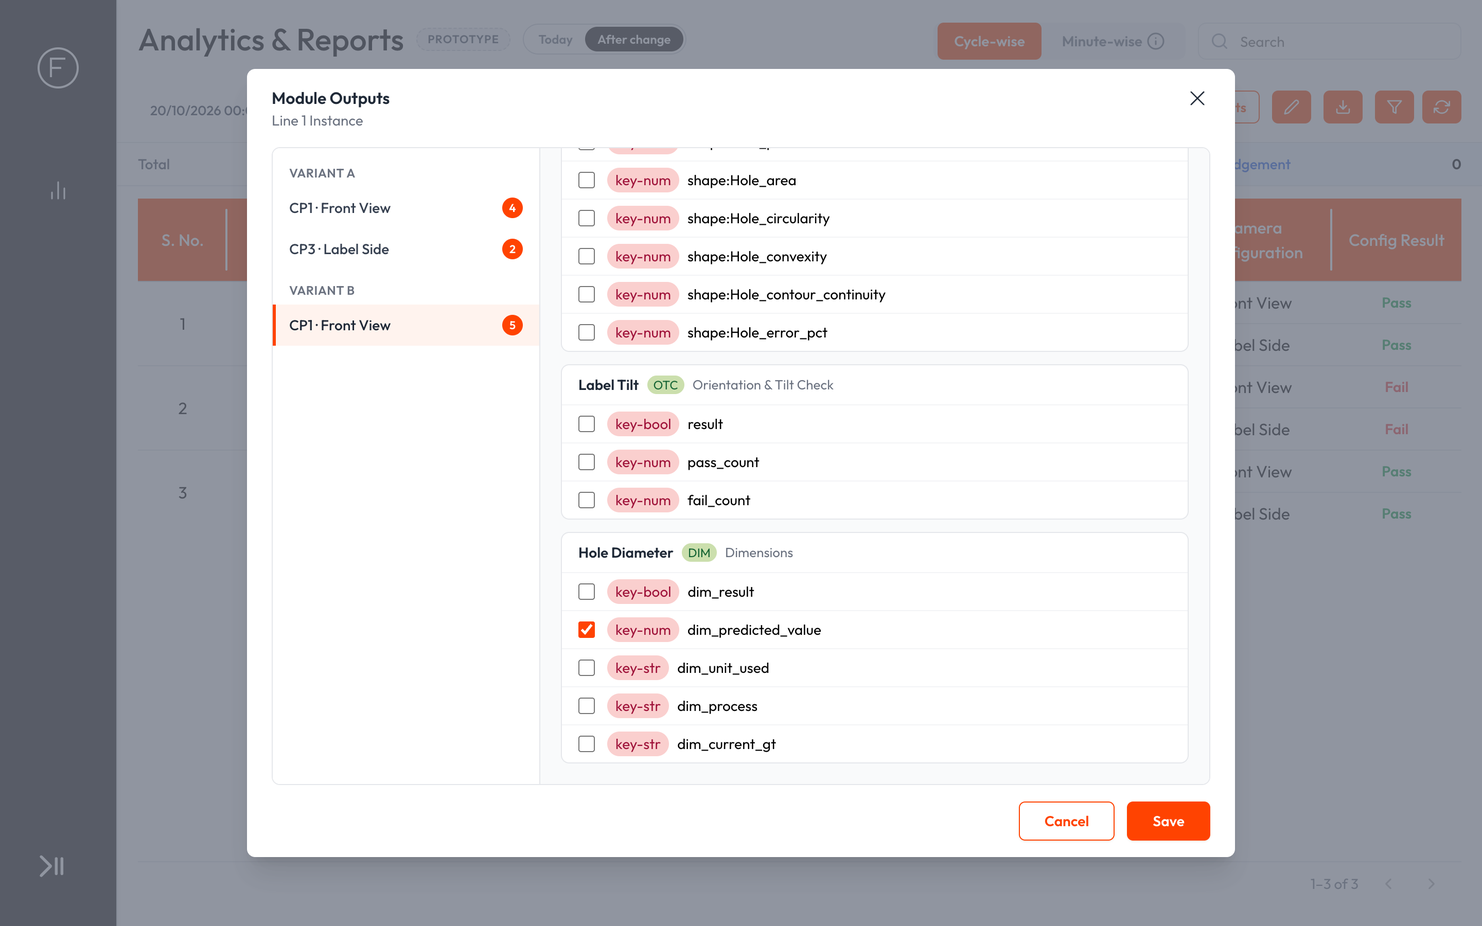
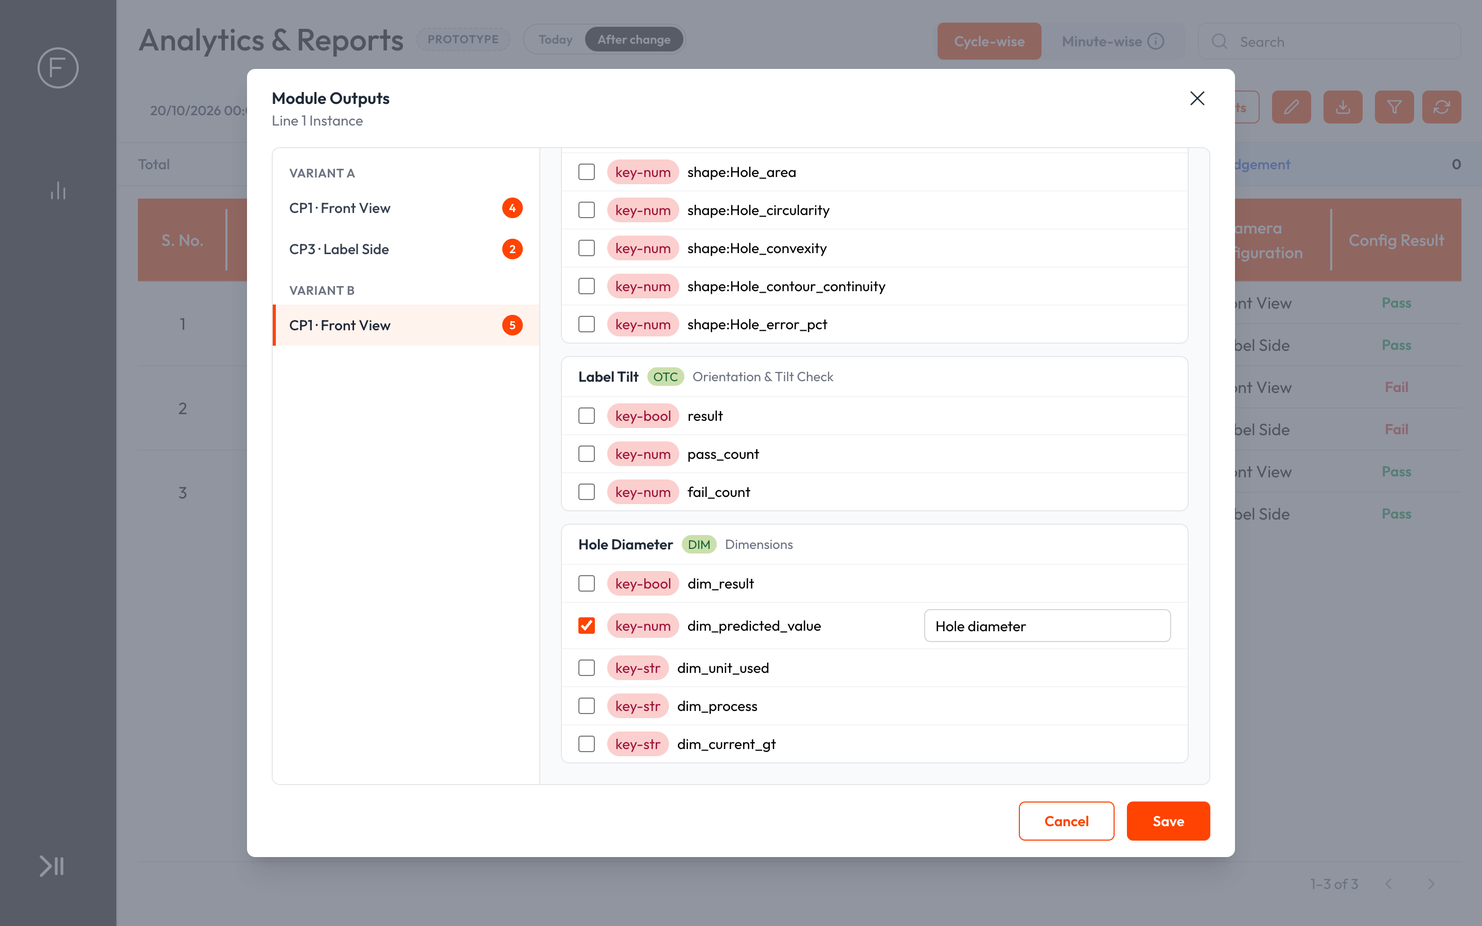
Display Name per ticked key; table, Search and Excel use Display Names

Changed region(s): [[0.375, 0.1556, 0.5938, 0.7156], [0.625, 0.6533, 0.6875, 0.6844]]

diff --git a/shared.js b/shared.js
@@ -19,47 +19,47 @@
   }
 
   // ---------- Edge system keys each capture offers (systemKeyDefinition.ts) ----------
-  // t = datatype (1 bool, 2 str, 3 num); s = suffix exactly as stored; label = how the table shows it for now.
-  const K = (t, s, label, tick) => ({ t, s, label, tick: !!tick });
-  const modKeys = (name) => [K(1, 'result', name + ' result'), K(3, 'pass_count', name + ' pass count'), K(3, 'fail_count', name + ' fail count')];
+  // t = datatype (1 bool, 2 str, 3 num); s = suffix exactly as stored; sample = Display Name in the sample setup (ticked).
+  const K = (t, s, sample) => ({ t, s, sample: sample || null });
+  const modKeys = () => [K(1, 'result'), K(3, 'pass_count'), K(3, 'fail_count')];
   const confCard = (cap) => ({ name: `${cap.pos} · ${cap.name}`, code: 'conf', conf: true, keys: [
-    K(3, 'completion_status', 'Completion status'), K(3, 'inference_time', 'Inference time'), K(3, 'avg_inference_time', 'Avg inference time'),
-    K(3, 'pass_count', 'Capture pass count'), K(3, 'fail_count', 'Capture fail count'), K(1, 'result', 'Capture result')] });
-  const clsKeys = (cls, countTick) => ({ name: cls, keys: [K(1, 'result', cls + ' result'), K(3, 'current_count', cls + ' count', countTick),
-    K(3, 'count_till_now', cls + ' count till now')] });
+    K(3, 'completion_status'), K(3, 'inference_time'), K(3, 'avg_inference_time'),
+    K(3, 'pass_count'), K(3, 'fail_count'), K(1, 'result')] });
+  const clsKeys = (cls, countName) => ({ name: cls, keys: [K(1, 'result'), K(3, 'current_count', countName),
+    K(3, 'count_till_now')] });
 
   const A_CP1 = [
-    { name: 'Fastener Check', type: 'Object Detection & Classification', code: 'ODC', keys: modKeys('Fastener'),
-      classes: [clsKeys('Screw', true), clsKeys('Washer', true)] },
-    { name: 'Slot Check', type: 'Image Classification', code: 'IC', keys: modKeys('Slot').concat([
-      K(2, 'detected_class (Slot 1)', 'Slot 1 class', true), K(2, 'detected_class (Slot 2)', 'Slot 2 class', true), K(2, 'correct_class', 'Correct class')]) },
+    { name: 'Fastener Check', type: 'Object Detection & Classification', code: 'ODC', keys: modKeys(),
+      classes: [clsKeys('Screw', 'Screw count'), clsKeys('Washer', 'Washer count')] },
+    { name: 'Slot Check', type: 'Image Classification', code: 'IC', keys: modKeys().concat([
+      K(2, 'detected_class (Slot 1)', 'Slot 1 class'), K(2, 'detected_class (Slot 2)', 'Slot 2 class'), K(2, 'correct_class')]) },
   ];
   const A_CP3 = [
-    { name: 'Serial Reader', type: 'OCR', code: 'OCR', keys: modKeys('Serial').concat([
-      K(2, 'detected_text', 'Detected text', true), K(2, 'labelName:Serial_gt_text', 'Serial expected'), K(1, 'labelName:Serial_result', 'Serial match'),
-      K(2, 'labelName:Serial_pass_count', 'Serial match pass count'), K(2, 'labelName:Serial_fail_count', 'Serial match fail count')]) },
-    { name: 'QR Reader', type: 'Code Reader', code: 'CR', keys: modKeys('Code').concat([
-      K(2, 'detected_string', 'Detected code', true), K(2, 'gt_string', 'Expected code')]) },
+    { name: 'Serial Reader', type: 'OCR', code: 'OCR', keys: modKeys().concat([
+      K(2, 'detected_text', 'Serial No.'), K(2, 'labelName:Serial_gt_text'), K(1, 'labelName:Serial_result'),
+      K(2, 'labelName:Serial_pass_count'), K(2, 'labelName:Serial_fail_count')]) },
+    { name: 'QR Reader', type: 'Code Reader', code: 'CR', keys: modKeys().concat([
+      K(2, 'detected_string', 'QR code'), K(2, 'gt_string')]) },
     { name: 'Surface Check', type: 'Segmentation', code: 'SEG', keys: [] },
   ];
   const B_CP1 = [
     { name: 'Seal Check', type: 'Bead Inspection', code: 'BEAD', keys: [
-      K(1, 'result', 'Seal result', true), K(3, 'pass_count', 'Seal pass count'), K(3, 'fail_count', 'Seal fail count'),
-      K(3, 'caliper_pass_percentage', 'Caliper pass %', true), K(2, 'bead_class_name', 'Bead class'), K(1, 'bead:Door seal_result', 'Door seal result'),
-      K(3, 'bead:Door seal_pass_count', 'Door seal pass count'), K(3, 'bead:Door seal_fail_count', 'Door seal fail count'),
-      K(1, 'bead:Door seal_bead_width', 'Door seal width'), K(1, 'bead:Door seal_bead_gap/position', 'Door seal gap')] },
-    { name: 'Cap Colour', type: 'Colour Detection', code: 'CD', keys: modKeys('Colour').concat([
-      K(2, 'colorName:Red_detected_color', 'Detected colour'), K(1, 'colorName:Red_result', 'Red result'), K(3, 'colorName:Red_pass_count', 'Red pass count'),
-      K(3, 'colorName:Red_fail_count', 'Red fail count'), K(3, 'colorName:Red_distribution_percentage', 'Red coverage', true)]) },
+      K(1, 'result', 'Bead result'), K(3, 'pass_count'), K(3, 'fail_count'),
+      K(3, 'caliper_pass_percentage', 'Caliper pass %'), K(2, 'bead_class_name'), K(1, 'bead:Door seal_result'),
+      K(3, 'bead:Door seal_pass_count'), K(3, 'bead:Door seal_fail_count'),
+      K(1, 'bead:Door seal_bead_width'), K(1, 'bead:Door seal_bead_gap/position')] },
+    { name: 'Cap Colour', type: 'Colour Detection', code: 'CD', keys: modKeys().concat([
+      K(2, 'colorName:Red_detected_color'), K(1, 'colorName:Red_result'), K(3, 'colorName:Red_pass_count'),
+      K(3, 'colorName:Red_fail_count'), K(3, 'colorName:Red_distribution_percentage', 'Red coverage')]) },
     { name: 'Hole Fit', type: 'Shape Extractor', code: 'SE', keys: [
-      K(3, 'shape:Hole_radius', 'Hole radius', true), K(3, 'shape:Hole_perimeter', 'Hole perimeter'), K(3, 'shape:Hole_area', 'Hole area'),
-      K(3, 'shape:Hole_circularity', 'Hole circularity'), K(3, 'shape:Hole_convexity', 'Hole convexity'),
-      K(3, 'shape:Hole_contour_continuity', 'Hole contour continuity'), K(3, 'shape:Hole_error_pct', 'Hole error %')] },
-    { name: 'Label Tilt', type: 'Orientation & Tilt Check', code: 'OTC', keys: modKeys('Tilt') },
+      K(3, 'shape:Hole_radius', 'Hole radius'), K(3, 'shape:Hole_perimeter'), K(3, 'shape:Hole_area'),
+      K(3, 'shape:Hole_circularity'), K(3, 'shape:Hole_convexity'),
+      K(3, 'shape:Hole_contour_continuity'), K(3, 'shape:Hole_error_pct')] },
+    { name: 'Label Tilt', type: 'Orientation & Tilt Check', code: 'OTC', keys: modKeys() },
     // Dimensions keys are variant-level; shown last in this capture's view.
     { name: 'Hole Diameter', type: 'Dimensions', code: 'DIM', keys: [
-      K(1, 'dim_result', 'Hole Diameter result'), K(3, 'dim_predicted_value', 'Hole Diameter', true), K(2, 'dim_unit_used', 'Unit'),
-      K(2, 'dim_process', 'Process'), K(2, 'dim_current_gt', 'Hole Diameter expected')] },
+      K(1, 'dim_result'), K(3, 'dim_predicted_value', 'Hole diameter'), K(2, 'dim_unit_used'),
+      K(2, 'dim_process'), K(2, 'dim_current_gt')] },
   ];
   // Capture keys used in the shared state: "<variant letter>-<camera position>"
   const CAPTURES = [
@@ -78,73 +78,72 @@
   const valuesOf = (cap) => cap.cards.flatMap((m) => m.rows);
   const clone = (o) => JSON.parse(JSON.stringify(o));
 
-  // Setup in memory: { "<captureKey>": { "<keyId>": true } }; stored as arrays of ticked key ids.
+  // Setup: { "<captureKey>": { "<keyId>": "<Display Name>" } } (a key is ticked when it has an entry). Stored as-is.
   function emptySetup() { const s = {}; CAPTURES.forEach((cap) => { s[cap.id] = {}; }); return s; }
   function sampleSetup() {
     const s = emptySetup();
-    CAPTURES.forEach((cap) => valuesOf(cap).forEach((k) => { if (k.tick) s[cap.id][k.id] = true; }));
+    CAPTURES.forEach((cap) => valuesOf(cap).forEach((k) => { if (k.sample) s[cap.id][k.id] = k.sample; }));
     return s;
+  }
+  // Only the current shape counts; anything older is treated as nothing saved.
+  function validStored(st) {
+    if (!st || !st.saved || !st.setup || typeof st.setup !== 'object' || Array.isArray(st.setup)) return false;
+    return Object.values(st.setup).every((m) => m && typeof m === 'object' && !Array.isArray(m) && Object.values(m).every((v) => typeof v === 'string'));
   }
   function normalizeSetup(stored) {
     const s = emptySetup();
-    if (!stored || typeof stored !== 'object') return s;
     CAPTURES.forEach((cap) => {
-      const ids = new Set(Array.isArray(stored[cap.id]) ? stored[cap.id] : []);
-      valuesOf(cap).forEach((k) => { if (ids.has(k.id)) s[cap.id][k.id] = true; });
+      const m = (stored && stored[cap.id]) || {};
+      valuesOf(cap).forEach((k) => { if (typeof m[k.id] === 'string' && m[k.id].trim()) s[cap.id][k.id] = m[k.id].trim().slice(0, 40); });
     });
     return s;
   }
-  const toStored = (setup) => Object.fromEntries(CAPTURES.map((cap) => [cap.id, valuesOf(cap).filter((k) => setup[cap.id] && setup[cap.id][k.id]).map((k) => k.id)]));
-  const ticked = (setup, capId) => Object.values((setup && setup[capId]) || {}).filter(Boolean).length;
+  const toStored = (setup) => normalizeSetup(setup);
+  const ticked = (setup, capId) => Object.keys((setup && setup[capId]) || {}).length;
   const isSetUp = (setup) => CAPTURES.some((c) => ticked(setup, c.id) > 0);
 
   // ---------- Sample cycles (Line 1 Instance, newest first) ----------
-  function cp1Out(screws, slot2, pass, fail, ms) {
-    const odcOk = screws === 4, icOk = slot2 !== 'Bad', ok = odcOk && icOk, b = (x) => (x ? 'true' : 'false');
-    return { 'conf|completion_status': '1', 'conf|inference_time': String(ms), 'conf|avg_inference_time': '176', 'conf|pass_count': String(pass),
-      'conf|fail_count': String(fail), 'conf|result': b(ok), 'ODC|result': b(odcOk), 'ODC|pass_count': String(pass + 3), 'ODC|fail_count': String(odcOk ? fail - 1 : fail),
-      'ODC|cls:Screw|result': b(odcOk), 'ODC|cls:Screw|current_count': String(screws), 'ODC|cls:Screw|count_till_now': String(512 + screws),
-      'ODC|cls:Washer|result': 'true', 'ODC|cls:Washer|current_count': '2', 'ODC|cls:Washer|count_till_now': '258',
-      'IC|result': b(icOk), 'IC|pass_count': String(pass + 1), 'IC|fail_count': String(icOk ? fail - 1 : fail),
-      'IC|detected_class (Slot 1)': 'Good', 'IC|detected_class (Slot 2)': slot2, 'IC|correct_class': 'Good' };
+  // Per-cycle values. Running counters (pass/fail counts, count till now, averages, completion status) have no
+  // per-cycle value, so they are absent here and show as "—".
+  function cp1Out(screws, slot2, ms) {
+    const odcOk = screws === 4, icOk = slot2 !== 'Bad', b = (x) => (x ? 'true' : 'false');
+    return { 'conf|inference_time': String(ms), 'conf|result': b(odcOk && icOk), 'ODC|result': b(odcOk),
+      'ODC|cls:Screw|result': b(odcOk), 'ODC|cls:Screw|current_count': String(screws),
+      'ODC|cls:Washer|result': 'true', 'ODC|cls:Washer|current_count': '2',
+      'IC|result': b(icOk), 'IC|detected_class (Slot 1)': 'Good', 'IC|detected_class (Slot 2)': slot2, 'IC|correct_class': 'Good' };
   }
-  function cp3Out(serial, code, pass, fail, ms) {
+  function cp3Out(serial, code, ms) {
     const read = code !== '—', b = (x) => (x ? 'true' : 'false');
-    return { 'conf|completion_status': '1', 'conf|inference_time': String(ms), 'conf|avg_inference_time': '141', 'conf|pass_count': String(pass),
-      'conf|fail_count': String(fail), 'conf|result': b(read), 'OCR|result': 'true', 'OCR|pass_count': String(pass + 1), 'OCR|fail_count': '0',
-      'OCR|detected_text': serial, 'OCR|labelName:Serial_gt_text': serial, 'OCR|labelName:Serial_result': 'true',
-      'OCR|labelName:Serial_pass_count': String(pass + 1), 'OCR|labelName:Serial_fail_count': '0',
-      'CR|result': b(read), 'CR|pass_count': String(read ? pass : pass - 1), 'CR|fail_count': String(fail), 'CR|detected_string': code,
-      'CR|gt_string': read ? code : 'FRK2026A0041' };
+    return { 'conf|inference_time': String(ms), 'conf|result': b(read), 'OCR|result': 'true', 'OCR|detected_text': serial,
+      'OCR|labelName:Serial_gt_text': serial, 'OCR|labelName:Serial_result': 'true',
+      'CR|result': b(read), 'CR|detected_string': code, 'CR|gt_string': read ? code : 'FRK2026A0041' };
   }
   // kind/frame fields feed the image viewer only.
   const cp1 = (result, out, frame) => ({ pos: 'CP1', name: 'Front View', kind: 'front', result, out, frame });
   const cp3 = (result, out, frame) => ({ pos: 'CP3', name: 'Label Side', kind: 'label', result, out, frame });
   const CYCLES = [
     { ts: '20/10/2026, 02:14:07 PM', variant: 'Variant A', result: true, caps: [
-      cp1(true, cp1Out(4, 'Empty', 127, 5, 184), { screw: '4', slot1: 'Good', slot2: 'Empty' }),
-      cp3(true, cp3Out('SN-48213', 'FRK2026A0042', 127, 1, 139), { text: 'SN-48213', code: 'FRK2026A0042', scratch: '2', dent: '0' })] },
+      cp1(true, cp1Out(4, 'Empty', 184), { screw: '4', slot1: 'Good', slot2: 'Empty' }),
+      cp3(true, cp3Out('SN-48213', 'FRK2026A0042', 139), { text: 'SN-48213', code: 'FRK2026A0042', scratch: '2', dent: '0' })] },
     { ts: '20/10/2026, 02:14:01 PM', variant: 'Variant A', result: false, caps: [
-      cp1(false, cp1Out(3, 'Bad', 126, 5, 191), { screw: '3', slot1: 'Good', slot2: 'Bad' }),
-      cp3(false, cp3Out('SN-48212', '—', 126, 1, 143), { text: 'SN-48212', code: '—', scratch: '3', dent: '1' })] },
+      cp1(false, cp1Out(3, 'Bad', 191), { screw: '3', slot1: 'Good', slot2: 'Bad' }),
+      cp3(false, cp3Out('SN-48212', '—', 143), { text: 'SN-48212', code: '—', scratch: '3', dent: '1' })] },
     { ts: '20/10/2026, 02:13:55 PM', variant: 'Variant A', result: true, caps: [
-      cp1(true, cp1Out(4, 'Empty', 126, 4, 179), { screw: '4', slot1: 'Good', slot2: 'Empty' }),
-      cp3(true, cp3Out('SN-48211', 'FRK2026A0040', 126, 0, 137), { text: 'SN-48211', code: 'FRK2026A0040', scratch: '1', dent: '0' })] },
+      cp1(true, cp1Out(4, 'Empty', 179), { screw: '4', slot1: 'Good', slot2: 'Empty' }),
+      cp3(true, cp3Out('SN-48211', 'FRK2026A0040', 137), { text: 'SN-48211', code: 'FRK2026A0040', scratch: '1', dent: '0' })] },
   ];
   const capIdOf = (cycle, cap) => cycle.variant.slice(-1) + '-' + cap.pos;
-  // Ticked keys of one capture row, in card order: [{ name, value }]
+  // Ticked keys of one capture row, in setup order: [{ name: Display Name, value }]
   function outputLines(cycle, cap, setup) {
     const capId = capIdOf(cycle, cap), conf = setup && setup[capId];
     if (!conf || !CAP[capId]) return [];
-    return valuesOf(CAP[capId]).filter((k) => conf[k.id] && cap.out[k.id] != null).map((k) => ({ name: k.label, value: cap.out[k.id] }));
+    return valuesOf(CAP[capId]).filter((k) => conf[k.id]).map((k) => ({ name: conf[k.id], value: cap.out[k.id] != null ? cap.out[k.id] : '—' }));
   }
 
   // Which setup a screen shows: the saved one once the user has saved, else the fallback for that step.
-  // A store from an older build (names instead of key ids) counts as nothing saved.
   function resolveSetup(useSample) {
     const st = readStore();
-    const valid = st && st.saved && st.setup && typeof st.setup === 'object' && Object.values(st.setup).every(Array.isArray);
-    if (valid) return { stored: true, setup: normalizeSetup(st.setup) };
+    if (validStored(st)) return { stored: true, setup: normalizeSetup(st.setup) };
     return { stored: false, setup: useSample ? sampleSetup() : emptySetup() };
   }
 

diff --git a/reports.html b/reports.html
@@ -195,6 +195,14 @@ td.mo-td > div{justify-content:flex-start;text-align:left}
 .vrow + .vrow{border-top:1px solid var(--line-soft)}
 .vrow input[type=checkbox]{width:16px;height:16px;flex-shrink:0;cursor:pointer;accent-color:var(--primary)}
 .vrow.gs{border-top:1px solid var(--border)}
+.vl{display:flex;align-items:center;gap:12px;flex:1;min-width:0;cursor:pointer}
+.dnw{flex-shrink:0;width:240px}
+.dn{display:block;width:100%;height:32px;border:1px solid var(--border-strong);border-radius:6px;padding:0 10px;font-size:14px;background:var(--surface);color:var(--text)}
+.dn::placeholder{color:var(--muted-2)}
+.dn:focus{outline:2px solid var(--primary);outline-offset:-1px;border-color:var(--primary)}
+.dn.err{border-color:#ef4444}
+.dn.err:focus{outline-color:#ef4444}
+.dnerr{margin-top:3px;font-size:12px;line-height:16px;color:#ef4444}
 /* Edge system key look (deployment-frontend KeySelector + Chip): prefix chip, black name, bold grey ">" */
 .kb{display:flex;align-items:center;flex-wrap:wrap;row-gap:4px;min-width:0}
 .kc{display:inline-flex;align-items:center;padding:2px 8px;border-radius:12px;font-size:14px;line-height:20px;white-space:nowrap}
@@ -294,6 +302,7 @@ td.empty{padding:8px;text-align:center;font-size:16px;color:var(--label);backgro
   .caps{flex:0 0 auto;max-height:180px;border-right:0;border-bottom:1px solid var(--border)}
   .pane{padding:12px}
   .vrow{flex-wrap:wrap}
+  .dnw{width:calc(100% - 28px);margin-left:28px}
   .vw-in{padding:16px}
   .vw-head{flex-wrap:wrap}
   .vw-nav{padding:10px}
@@ -493,7 +502,7 @@ td.empty{padding:8px;text-align:center;font-size:16px;color:var(--label);backgro
   </div>
 </div>
 
-<script src="shared.js?v=20261023c"></script>
+<script src="shared.js?v=20261023d"></script>
 <script>
 (function () {
   const $ = (id) => document.getElementById(id);
@@ -764,12 +773,26 @@ td.empty{padding:8px;text-align:center;font-size:16px;color:var(--label);backgro
   $('sclear').addEventListener('click', () => { term = ''; $('search').value = ''; $('sclear').hidden = true; renderTable(); });
 
   // ---------- Module Outputs setup modal ----------
-  const M = { sel: 'A-CP1', draft: null };
+  // Draft while the window is open: ticked keys, typed Display Names (kept when unticked until Save/Cancel), touched rows.
+  const M = { sel: 'A-CP1', on: null, names: null, touched: new Set() };
+  const tk = (capId, id) => capId + '::' + id;
+  function capErrors(capId) {
+    const on = M.on[capId] || {}, names = M.names[capId] || {}, errs = {}, seen = {};
+    Object.keys(on).forEach((id) => {
+      const v = (names[id] || '').trim();
+      if (!v) { errs[id] = 'Enter a display name'; return; }
+      const low = v.toLowerCase();
+      (seen[low] = seen[low] || []).push(id);
+    });
+    Object.values(seen).forEach((ids) => { if (ids.length > 1) ids.forEach((id) => { errs[id] = 'Name already used in this capture'; }); });
+    return errs;
+  }
+  const anyError = () => CAPTURES.some((c) => Object.keys(capErrors(c.id)).length > 0);
   function renderCapList() {
     let html = '', last = '';
     CAPTURES.forEach((cap) => {
       if (cap.variant !== last) { html += `<div class="caps-h">${cap.variant}</div>`; last = cap.variant; }
-      const n = ticked(M.draft, cap.id);
+      const n = Object.keys(M.on[cap.id] || {}).length;
       html += `<button type="button" class="cap${cap.id === M.sel ? ' on' : ''}" data-cap="${cap.id}" aria-current="${cap.id === M.sel}">` +
         `<span>${cap.pos} · ${cap.name}</span><span class="cnt${n ? ' on' : ''}">${n}</span></button>`;
     });
@@ -779,22 +802,44 @@ td.empty{padding:8px;text-align:center;font-size:16px;color:var(--label);backgro
   const chip = (cls, text) => `<span class="kc ${cls}">${esc(text)}</span>`;
   const seg = (cls, prefix, name) => `<span style="display:inline-flex;align-items:center">${chip(cls, prefix)}<span class="kl">${esc(name)}</span></span>`;
   const SEP = '<span class="ksep">&gt;</span>';
+  function rowInner(k) {
+    const on = !!M.on[M.sel][k.id], name = M.names[M.sel][k.id] || '';
+    return `<label class="vl"><input type="checkbox" ${on ? 'checked' : ''} aria-label="${esc(k.id)}">` +
+      `<span class="kb">${k.cls ? seg('b', 'cls', k.cls) + SEP : ''}${seg('r', 'key-' + TYPE[k.t], k.s)}</span></label>` +
+      (on ? `<div class="dnw"><input type="text" class="dn" maxlength="40" placeholder="Display Name" value="${esc(name)}" aria-label="Display Name for ${esc(k.s)}"><div class="dnerr" hidden></div></div>` : '');
+  }
   function renderPane() {
-    const cap = CAP[M.sel], conf = M.draft[M.sel];
+    const cap = CAP[M.sel];
     $('capPane').innerHTML = `<div class="pane-h"><b>${cap.pos} · ${cap.name}</b><span>${cap.variant}</span></div>` +
       cap.cards.map((m) => `<section class="mcard"><div class="mcard-h"><b>${esc(m.name)}</b>${chip('g', m.code)}${m.conf ? '' : `<span>${esc(m.type)}</span>`}</div>` +
         (m.rows.length ? m.rows.map((k, i) => {
-          const on = !!conf[k.id], groupStart = k.cls && (i === 0 || m.rows[i - 1].cls !== k.cls);
-          return `<label class="vrow${groupStart && i > 0 ? ' gs' : ''}" data-val="${esc(k.id)}">` +
-            `<input type="checkbox" ${on ? 'checked' : ''} aria-label="${esc(k.id)}">` +
-            `<span class="kb">${k.cls ? seg('b', 'cls', k.cls) + SEP : ''}${seg('r', 'key-' + TYPE[k.t], k.s)}</span></label>`;
+          const groupStart = k.cls && i > 0 && m.rows[i - 1].cls !== k.cls;
+          return `<div class="vrow${groupStart ? ' gs' : ''}" data-val="${esc(k.id)}">${rowInner(k)}</div>`;
         }).join('') : '<div class="nokeys">No keys</div>') + '</section>').join('');
     $('capPane').scrollTop = 0;
+    refreshErrors();
+  }
+  // Duplicate names show at once; an empty name shows once its row has been left. Save waits for every capture.
+  function refreshErrors() {
+    const errs = capErrors(M.sel);
+    $('capPane').querySelectorAll('.vrow').forEach((row) => {
+      const inp = row.querySelector('.dn'); if (!inp) return;
+      const id = row.dataset.val, msg = errs[id];
+      const show = msg && (msg !== 'Enter a display name' || M.touched.has(tk(M.sel, id)));
+      inp.classList.toggle('err', !!show);
+      const e = row.querySelector('.dnerr'); e.hidden = !show; e.textContent = show ? msg : '';
+    });
+    $('moSave').disabled = anyError();
   }
   function openModal(sel) {
     closeEditTable();
     M.sel = sel || 'A-CP1';
-    M.draft = clone(S.setup);
+    M.on = {}; M.names = {}; M.touched = new Set();
+    CAPTURES.forEach((c) => {
+      const conf = S.setup[c.id] || {};
+      M.on[c.id] = Object.fromEntries(Object.keys(conf).map((id) => [id, true]));
+      M.names[c.id] = Object.assign({}, conf);
+    });
     renderCapList(); renderPane();
     $('mo').hidden = false;
   }
@@ -804,7 +849,10 @@ td.empty{padding:8px;text-align:center;font-size:16px;color:var(--label);backgro
     MO.postNav(S.saved ? 'column' : 'reports');
   }
   function saveModal() {
-    S.setup = clone(M.draft); S.saved = true;
+    if (anyError()) return;
+    const setup = {};
+    CAPTURES.forEach((c) => { setup[c.id] = {}; Object.keys(M.on[c.id]).forEach((id) => { setup[c.id][id] = M.names[c.id][id].trim(); }); });
+    S.setup = MO.normalizeSetup(setup); S.saved = true;
     MO.writeStore({ saved: true, setup: MO.toStored(S.setup) });
     $('mo').hidden = true;
     if (MO.postNav('column', { toast: 'saved' })) return;
@@ -824,13 +872,27 @@ td.empty{padding:8px;text-align:center;font-size:16px;color:var(--label);backgro
   $('capList').addEventListener('click', (e) => {
     const b = e.target.closest('[data-cap]');
     if (!b || b.dataset.cap === M.sel) return;
+    Object.keys(M.on[M.sel]).forEach((id) => M.touched.add(tk(M.sel, id)));
     M.sel = b.dataset.cap; renderCapList(); renderPane();
   });
   $('capPane').addEventListener('change', (e) => {
     if (e.target.type !== 'checkbox') return;
-    const row = e.target.closest('[data-val]');
-    if (e.target.checked) M.draft[M.sel][row.dataset.val] = true; else delete M.draft[M.sel][row.dataset.val];
-    renderCapList();
+    const row = e.target.closest('[data-val]'), id = row.dataset.val;
+    if (e.target.checked) M.on[M.sel][id] = true; else delete M.on[M.sel][id];
+    const k = CAP[M.sel].cards.flatMap((m) => m.rows).find((r) => r.id === id);
+    row.innerHTML = rowInner(k);
+    if (e.target.checked) row.querySelector('.dn').focus();
+    renderCapList(); refreshErrors();
+  });
+  $('capPane').addEventListener('input', (e) => {
+    if (!e.target.classList.contains('dn')) return;
+    M.names[M.sel][e.target.closest('[data-val]').dataset.val] = e.target.value;
+    refreshErrors();
+  });
+  $('capPane').addEventListener('focusout', (e) => {
+    if (!e.target.classList.contains('dn')) return;
+    M.touched.add(tk(M.sel, e.target.closest('[data-val]').dataset.val));
+    refreshErrors();
   });
 
   // ---------- Download popup (mirrors DownloadModal.jsx) ----------
@@ -964,7 +1026,12 @@ td.empty{padding:8px;text-align:center;font-size:16px;color:var(--label);backgro
   loadState();
   renderAll();
   if (after && step === 'setup') openModal('A-CP1');
-  else if (after && step === 'choose') openModal('A-CP3');
+  else if (after && step === 'choose') {
+    openModal('A-CP3');
+    // Bring the first ticked key's card to the top so its Display Name inputs show.
+    const first = $('capPane').querySelector('.vrow input[type=checkbox]:checked');
+    if (first) { const card = first.closest('.mcard'); $('capPane').scrollTop = card.offsetTop - $('capPane').offsetTop - 12; }
+  }
   else if (after && step === 'more-modules') {
     openModal('B-CP1');
     if (rawState === 'setup-more-end') $('capPane').scrollTop = $('capPane').scrollHeight;

diff --git a/excel.html b/excel.html
@@ -149,7 +149,7 @@ a.hl{color:#0563C1;text-decoration:underline}
     <span class="zm"><span>−</span><span class="bar"><b></b></span><span>+</span><span>80%</span></span></div>
 </div>
 
-<script src="shared.js?v=20261023c"></script>
+<script src="shared.js?v=20261023d"></script>
 <script>
 (function () {
   const $ = (id) => document.getElementById(id);

diff --git a/index.html b/index.html
@@ -90,7 +90,7 @@
     const q = [];
     if (step.state) q.push('state=' + step.state);
     q.push('mode=' + mode);
-    q.push('v=20261023c');
+    q.push('v=20261023d');
     if (extra) Object.keys(extra).forEach((k) => q.push(k + '=' + encodeURIComponent(extra[k])));
     return step.file + '?' + q.join('&');
   }
